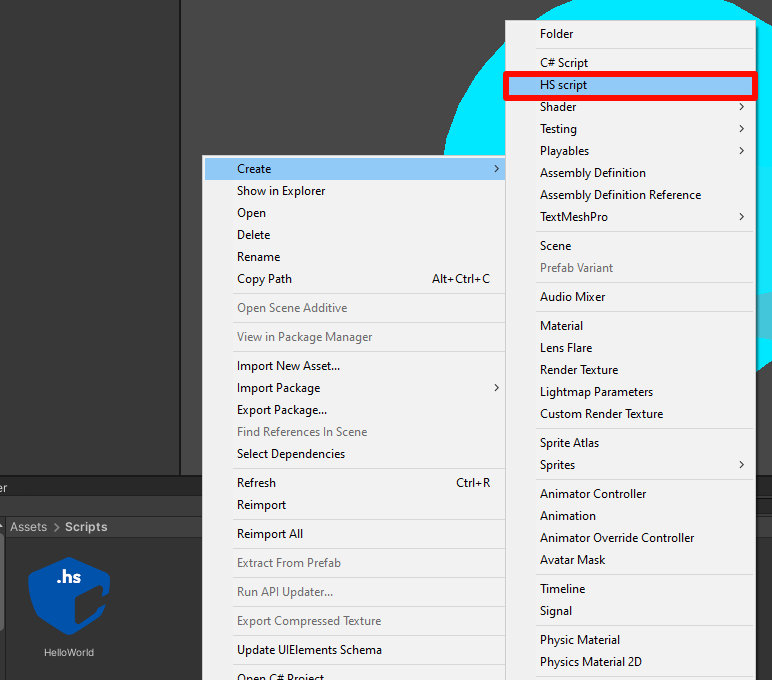
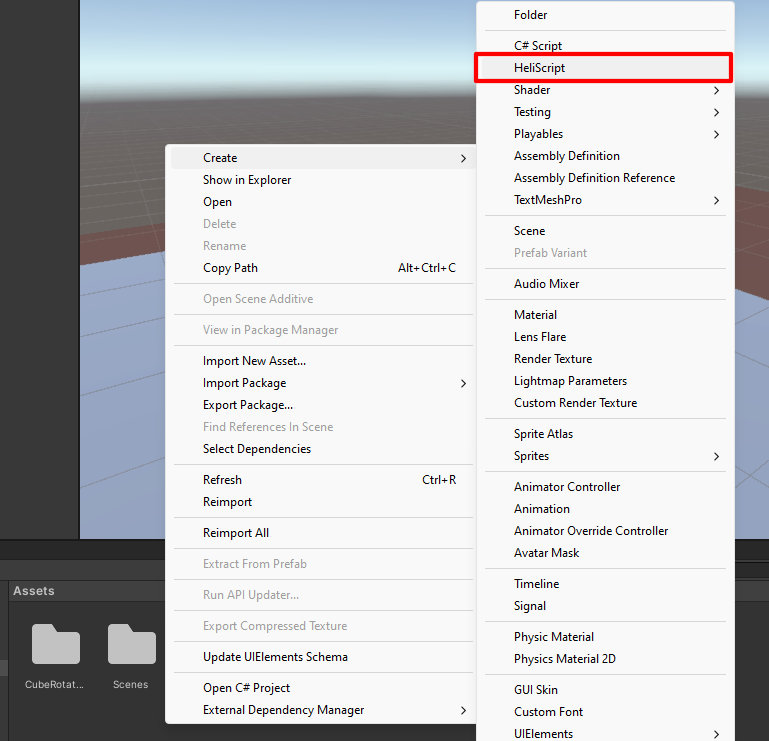
hs_overview: 導入方法をVer12.3準拠に更新

diff --git a/docs/hs/hs_overview.en.md b/docs/hs/hs_overview.en.md
@@ -13,7 +13,7 @@ As an example, we will show a basic implementation of displaying "Hello World" o
 ![hs_overview_1](img/hs_overview_1.jpg)
 
 First, create a file to write HeliScript. <br>
-Right-click in the Project window (where folder such as Assets are located), select **"HS script"**, and add the HeliScript file to any folder.
+Right-click in the Project window (where folder such as Assets are located), select **"HeliScript"**, and add the HeliScript file to any folder.
 
 As an example, a Scripts folder is newly added to the Assets folder, followed by creating a new HeliScript file with the name `HelloWorld.hs`.
 
@@ -35,14 +35,14 @@ By selecting "Select" on the right side of the menu, a list of HeliScripts will 
 ![hs_overview_4](img/hs_overview_4.jpg)
 
 In the HelloWorld script for this example, it is necessary to enable debug mode in order to display the result on the debug log. <br>
-To use debug mode, enable [Debug Mode](../WorldEditingTips/DebugMode.md) in [HEOWorldSetting](../HEOComponents/HEOWorldSetting.md).
+To use debug mode, enable [Debug Mode](../WorldEditingTips/DebugMode.md) in VketCloudSettings / [BasicSettings](../VketCloudSettings/BasicSettings.md).
 
 ### 4. Write HeliScript
 
 Now it's time to write the HeliScript itself. <br>
 A code example is shown below as an implementation of HelloWorld.hs.
 
-```
+```C#
 //component
 component HelloWorld
 {
@@ -51,7 +51,7 @@ component HelloWorld
      public HelloWorld()
      {
      //Output to debug log
-     hsSystemOutput("Hello, World!\n");
+     hsSystemWriteLine("Hello, World!");
      }
 
      //Update function: executed every frame
@@ -61,7 +61,9 @@ component HelloWorld
      }
 }
 ```
+
 ### 5. Test with Build And Run
+
 After completing the code implementation and executing Build And Run, "Hello, World!" will be displayed to the debug log on the screen.
 
 ![hs_overview_5](img/hs_overview_5.jpg)
@@ -76,7 +78,7 @@ For details on how to place HeliScript, please check [HEOScript](../HEOComponent
 In HeliScript, each objects are referenced by using Item and Node classes mentioned later. <br>
 For example, a script that outputs a message when the exampleObject under [HEOField](../HEOComponents/HEOField.md) is clicked can be written as follows.
 
-```
+```C#
 component example
 {
      //Define item/player class
@@ -114,7 +116,7 @@ component example
          //When the click target matches the node obtained previously:
         if(NodeIndex == ex_ItemNodeIndex){
         //Display message on debug console
-         hsSystemOutput("exObj Clicked.\n");
+         hsSystemWriteLine("exObj Clicked.");
          }
      }
 }

diff --git a/docs/changelog/changelog-12.3.ja.md b/docs/changelog/changelog-12.3.ja.md
@@ -90,6 +90,7 @@
 Ver12.xにて追加されたHeliScriptへの変更を追記：
   - [HeliScript概要](https://vrhikky.github.io/VketCloudSDK_Documents/12.3/ja/hs/hs_overview.html)
     - コンストラクタにおけるPlayerクラス関数の仕様変更を追記
+    - 導入方法をVer12.3準拠に更新
   - [クラス](https://vrhikky.github.io/VketCloudSDK_Documents/12.3/ja/hs/hs_class.html)
     - オブジェクトの生成・削除、存在の判定について追記
   - [コンポーネント / コールバック関数](https://vrhikky.github.io/VketCloudSDK_Documents/12.3/ja/hs/hs_component.html)

diff --git a/docs/changelog/changelog-12.3.en.md b/docs/changelog/changelog-12.3.en.md
@@ -90,6 +90,7 @@
 Added information on HeliScript updates on Ver12.x: *English version WIP
   - [HeliScript Overview](https://vrhikky.github.io/VketCloudSDK_Documents/12.3/en/hs/hs_overview.html)
     - Added feature change for Player class functions within constructor
+    - Updated instructions according to Ver12.3
   - [Class](https://vrhikky.github.io/VketCloudSDK_Documents/12.3/en/hs/hs_class.html)
     - Added object instantiation / deletion, detecting instants
   - [Components / Callback functions](https://vrhikky.github.io/VketCloudSDK_Documents/12.3/en/hs/hs_component.html)
